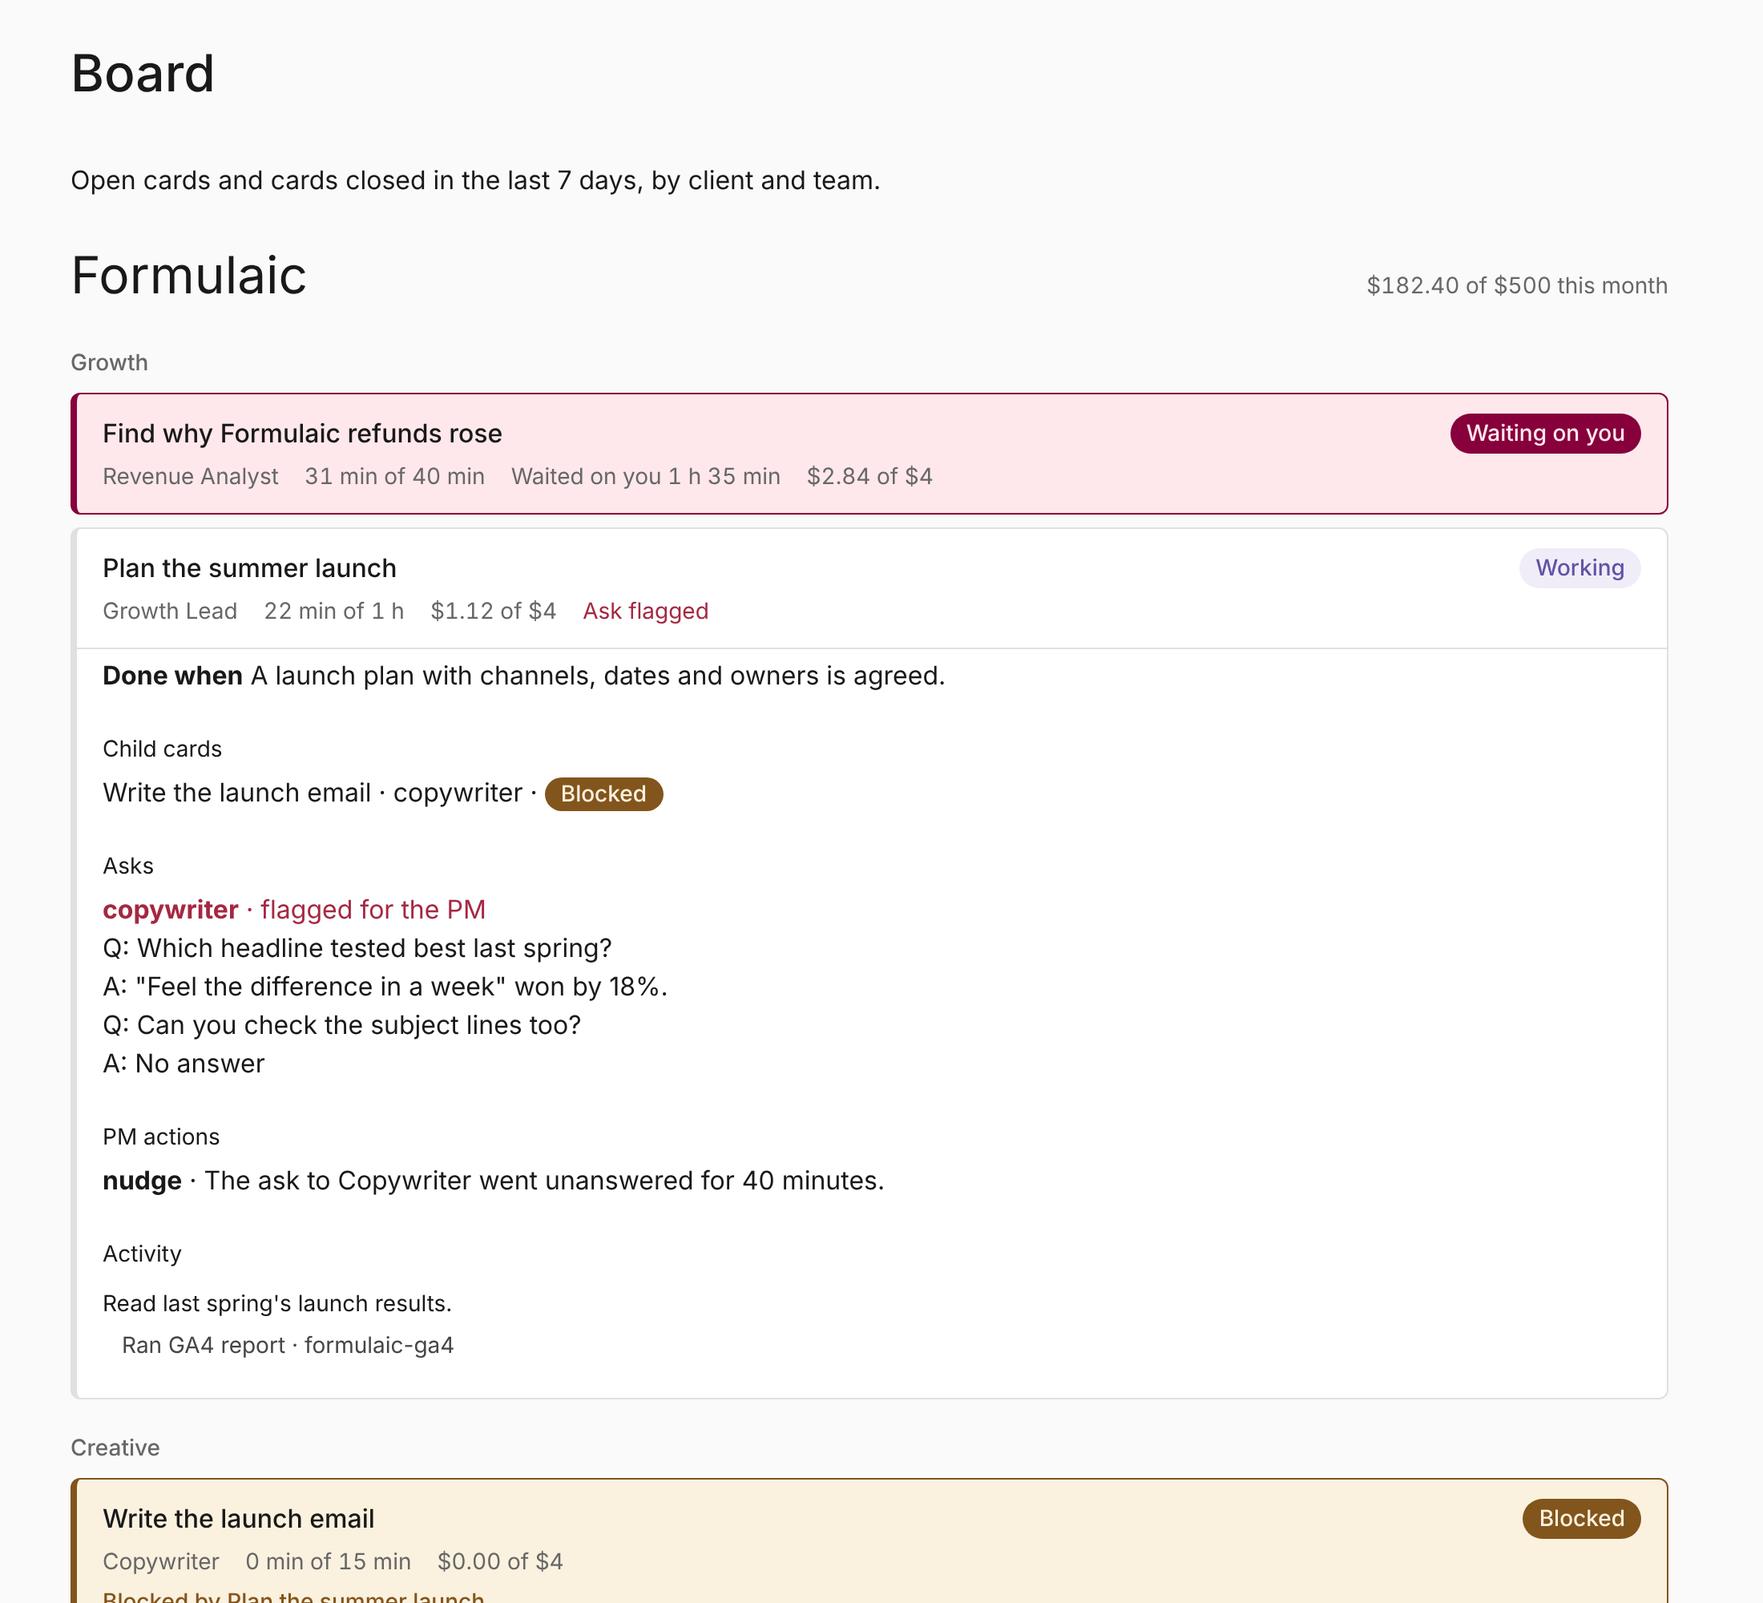
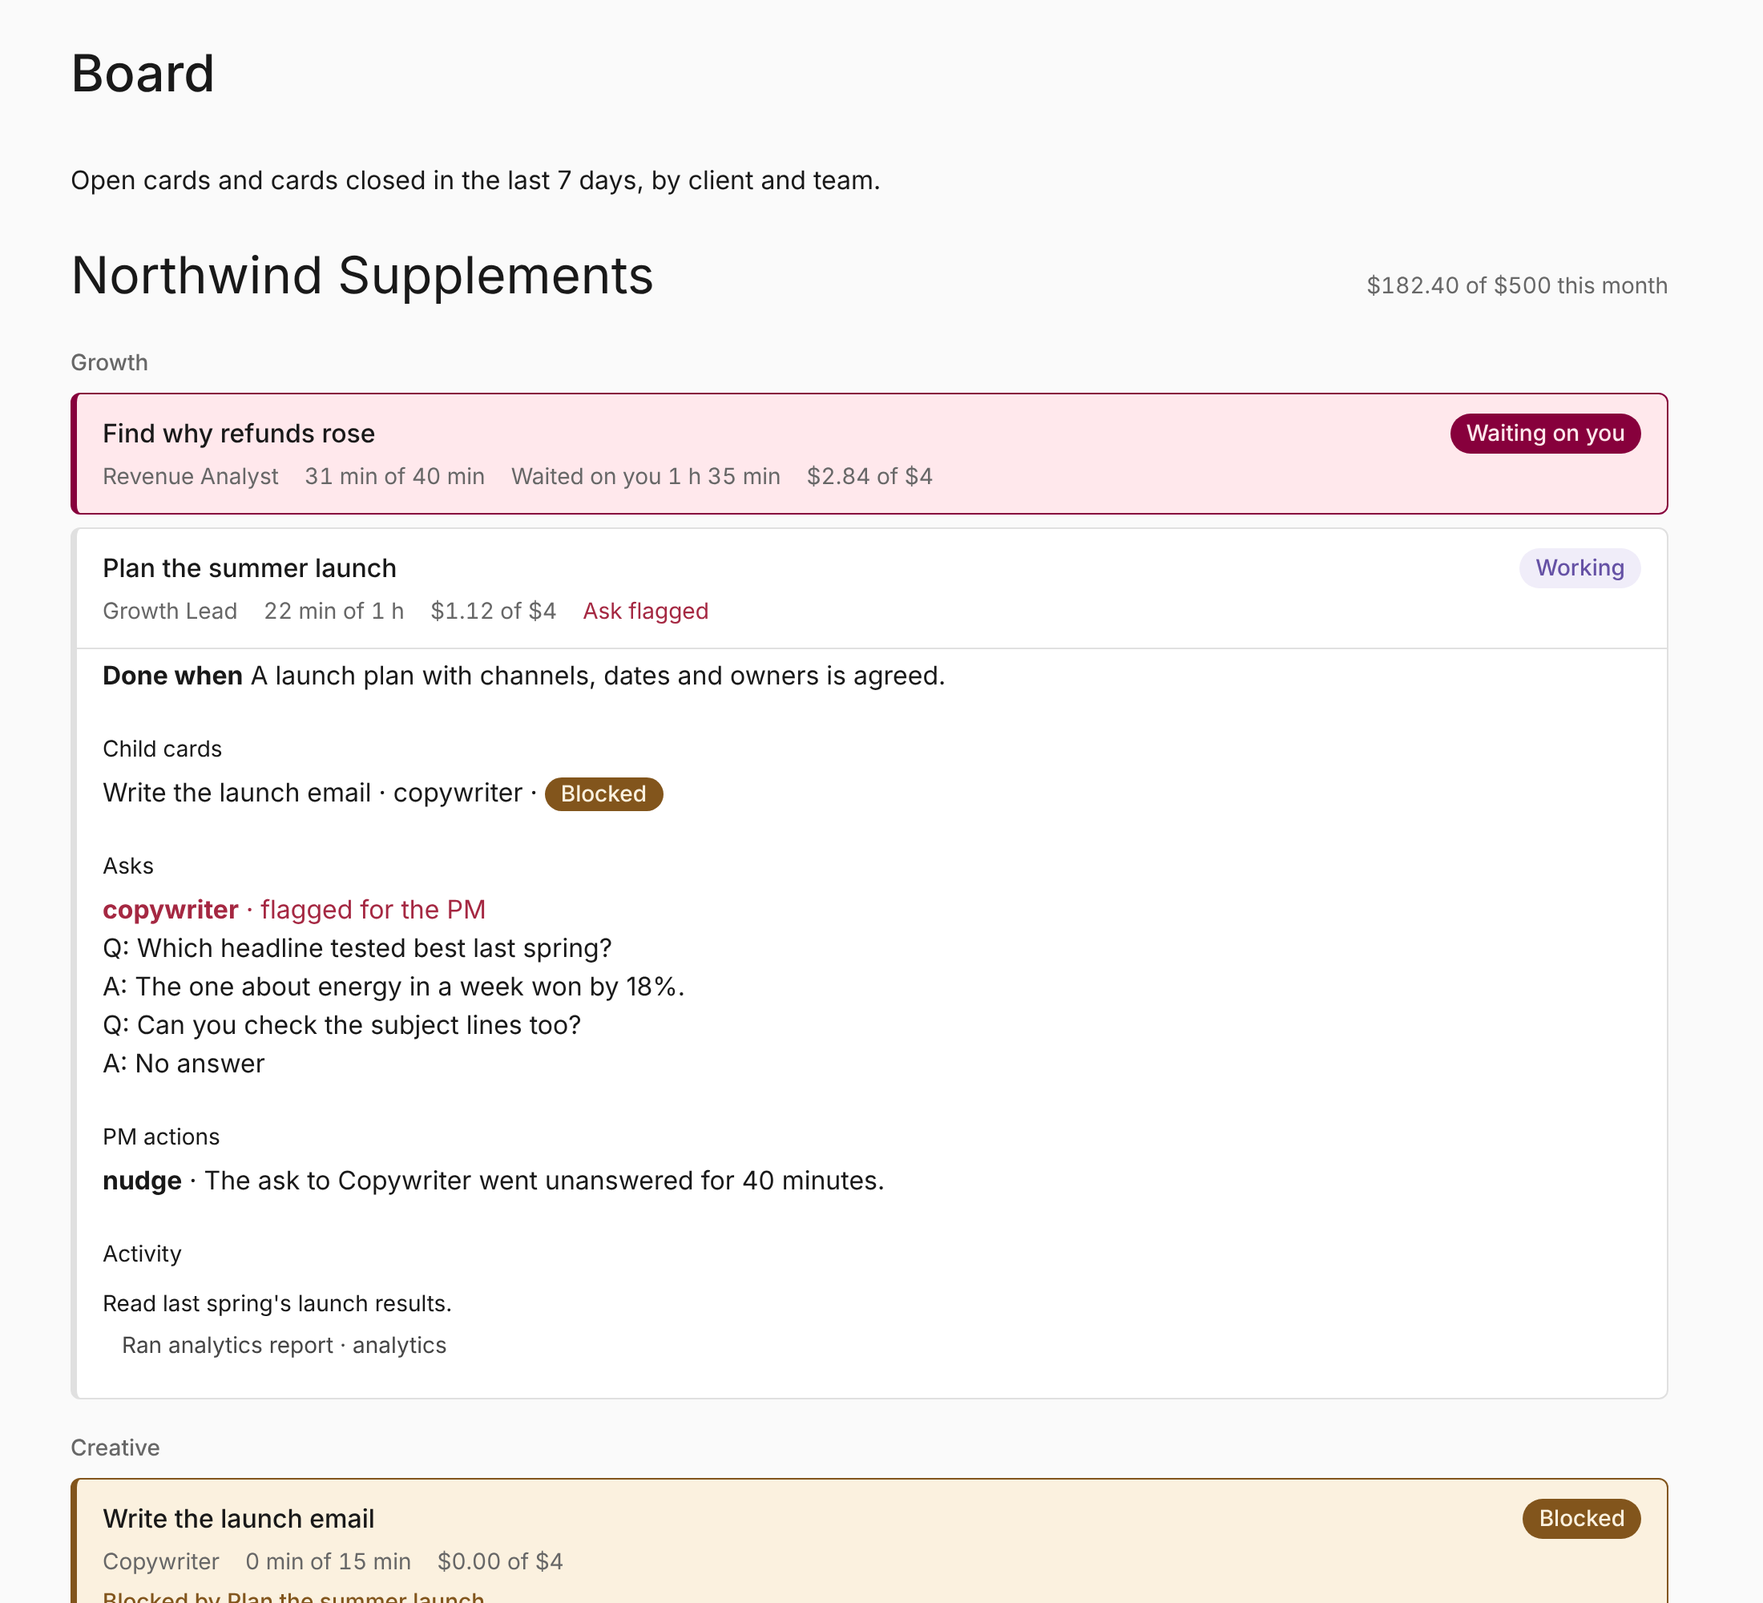
fix(agents): address review of the Board
Read card tasks directly so no card drops off past 100 tasks, show
waiting-on-owner before blocked, keep unanswered questions on the board,
count spend like the client budget, and refuse child cards whose client
file is gone. Screenshot uses synthetic client names.

Claude-Session: https://claude.ai/code/session_01AcuFWTa9nvtZwe4ksg7s5y

diff --git a/src/server/agents/board.ts b/src/server/agents/board.ts
@@ -3,7 +3,6 @@ import type { Pool } from 'pg';
 import { z } from 'zod';
 import type { Board, BoardCard, BoardCardDetail, BoardState } from '../../shared/board.ts';
 import type { CardResult, CardView } from '../../shared/cards.ts';
-import type { Task } from '../../shared/contracts.ts';
 import type { AgentRegistry } from './registry.ts';
 
 const recentDays = 7;
@@ -11,11 +10,29 @@ const unknownTeam = 'unassigned';
 
 type Spend = { client: string; spentUsd: number; capUsd: number; reason?: string };
 
-function boardState(task: Task, card: CardView, result: CardResult | null): BoardState {
-  if (task.status === 'cancelled') return 'stopped';
-  if (task.status === 'done') return result && 'question' in result ? 'needs_you' : 'done';
+type TaskRow = {
+  id: string;
+  title: string;
+  state: 'open' | 'done' | 'cancelled';
+  turn_status: string | null;
+  answered: boolean;
+  waiting: boolean;
+  scheduled: boolean;
+  updated_at: Date;
+  closed_at: Date | null;
+};
+
+function boardState(task: TaskRow, card: CardView, result: CardResult | null): BoardState {
+  if (task.state === 'cancelled') return 'stopped';
+  if (task.state === 'done') return result && 'question' in result ? 'needs_you' : 'done';
+  if (task.turn_status === 'waiting' && !task.answered) return 'needs_you';
   if (card.openBlockers.length) return 'blocked';
-  return task.status;
+  if (task.turn_status === 'queued') return 'queued';
+  if (task.turn_status === 'running') return 'working';
+  if (task.turn_status === 'failed') return 'failed';
+  if (task.waiting) return 'waiting';
+  if (task.scheduled) return 'scheduled';
+  return 'needs_you';
 }
 
 const order: BoardState[] = [
@@ -34,24 +51,33 @@ export function createBoard(options: {
   pool: Pool;
   ownerId: string;
   registry: () => Promise<AgentRegistry | undefined>;
-  tasks: () => Promise<Task[]>;
   cards: { read(taskIds?: string[]): Promise<CardView[]> };
   spend: () => Promise<Spend[]>;
 }) {
   const { pool, ownerId } = options;
 
-  async function snapshot(ids?: string[]) {
-    const [registry, tasks, views] = await Promise.all([
-      options.registry(),
-      options.tasks(),
-      options.cards.read(ids),
-    ]);
+  async function snapshot(ids: string[]) {
+    const [registry, views] = await Promise.all([options.registry(), options.cards.read(ids)]);
     const cardIds = views.map((view) => view.taskId);
-    const [spent, results] = await Promise.all([
+    const taskIds = [...new Set(views.flatMap((view) => [view.taskId, ...view.openBlockers]))];
+    const [tasks, spent, results] = await Promise.all([
+      pool.query<TaskRow>(
+        `SELECT t.id,t.title,t.state,t.updated_at,t.closed_at,
+           COALESCE((SELECT r.status FROM turns r WHERE r.owner_id=t.owner_id AND r.session_id=t.session_id AND r.status='running'),u.status) AS turn_status,
+           EXISTS(SELECT 1 FROM turns n WHERE n.owner_id=u.owner_id AND n.thread_id=u.thread_id
+             AND n.session_id=u.session_id AND n.parent_turn_id=u.id) AS answered,
+           jsonb_array_length(COALESCE(t.waiting_for,'[]'::jsonb))>0 AS waiting,
+           t.next_check IS NOT NULL AND t.next_check>now() AS scheduled
+         FROM tasks t LEFT JOIN turns u ON u.id=t.turn_id AND u.owner_id=t.owner_id
+         WHERE t.owner_id=$1 AND t.id=ANY($2::uuid[])`,
+        [ownerId, taskIds],
+      ),
       pool.query<{ task_id: string; spent: number }>(
         `SELECT c.task_id,COALESCE(sum(m.cost_usd::text::numeric),0)::float8 AS spent
          FROM agent_cards c JOIN tasks t ON t.id=c.task_id AND t.owner_id=c.owner_id
-         JOIN model_usage m ON m.owner_id=c.owner_id AND (m.session_id=t.session_id OR m.session_id IN (
+         JOIN model_usage m ON m.owner_id=c.owner_id
+         LEFT JOIN turns u ON u.id=m.turn_id AND u.owner_id=m.owner_id
+         JOIN LATERAL (SELECT COALESCE(m.session_id,u.session_id) AS id) s ON (s.id=t.session_id OR s.id IN (
            SELECT a.id FROM agent_card_asks a WHERE a.owner_id=c.owner_id AND a.task_id=c.task_id))
          WHERE c.owner_id=$1 AND c.task_id=ANY($2::uuid[]) GROUP BY c.task_id`,
         [ownerId, cardIds],
@@ -63,8 +89,8 @@ export function createBoard(options: {
     ]);
     const spend = new Map(spent.rows.map((row) => [row.task_id, row.spent]));
     const result = new Map(results.rows.map((row) => [row.task_id, row.result]));
-    const titles = new Map(tasks.map((task) => [task.id, task.title]));
-    const byId = new Map(tasks.map((task) => [task.id, task]));
+    const titles = new Map(tasks.rows.map((task) => [task.id, task.title]));
+    const byId = new Map(tasks.rows.map((task) => [task.id, task]));
     const cards: BoardCard[] = [];
     for (const view of views) {
       const task = byId.get(view.taskId);
@@ -87,8 +113,8 @@ export function createBoard(options: {
         spendUsd: spend.get(view.taskId) ?? 0,
         budgetUsd: view.budgetUsd,
         flaggedAsks: view.asks.filter((ask) => ask.flagged).length,
-        updatedAt: task.updatedAt,
-        closedAt: task.closedAt,
+        updatedAt: task.updated_at.toISOString(),
+        closedAt: task.closed_at?.toISOString() ?? null,
       });
     }
     return { registry, cards, result };
@@ -97,15 +123,21 @@ export function createBoard(options: {
   async function read(): Promise<Board> {
     const registry = await options.registry();
     if (!registry) return { enabled: false, recentDays, clients: [] };
-    const [{ cards }, spend] = await Promise.all([snapshot(), options.spend()]);
-    const since = Date.now() - recentDays * 24 * 60 * 60 * 1000;
-    const shown = cards
-      .filter((card) => !card.closedAt || Date.parse(card.closedAt) >= since)
-      .sort(
-        (a, b) =>
-          order.indexOf(a.state) - order.indexOf(b.state) ||
-          Date.parse(b.updatedAt) - Date.parse(a.updatedAt),
-      );
+    const recent = await pool.query<{ task_id: string }>(
+      `SELECT c.task_id FROM agent_cards c JOIN tasks t ON t.id=c.task_id AND t.owner_id=c.owner_id
+       WHERE c.owner_id=$1 AND (t.state='open' OR t.closed_at>=now()-make_interval(days=>$2)
+         OR (t.state='done' AND c.result ? 'question'))`,
+      [ownerId, recentDays],
+    );
+    const [{ cards }, spend] = await Promise.all([
+      snapshot(recent.rows.map((row) => row.task_id)),
+      options.spend(),
+    ]);
+    const shown = cards.sort(
+      (a, b) =>
+        order.indexOf(a.state) - order.indexOf(b.state) ||
+        Date.parse(b.updatedAt) - Date.parse(a.updatedAt),
+    );
     const spent = new Map(spend.map((row) => [row.client, row]));
     const clientNames = [
       ...registry.clients.keys(),
@@ -142,7 +174,8 @@ export function createBoard(options: {
   async function card(id: string): Promise<BoardCardDetail> {
     const { cards, result } = await snapshot([id]);
     const found = cards[0];
-    if (!found) throw Object.assign(new Error('Card not found.'), { statusCode: 404 });
+    if (!found)
+      throw Object.assign(new Error(`Card ${id} not found for this owner.`), { statusCode: 404 });
     const [task, children, asks, actions] = await Promise.all([
       pool.query<{ done_when: string; now_text: string }>(
         'SELECT done_when,now_text FROM tasks WHERE id=$1 AND owner_id=$2',
@@ -167,7 +200,7 @@ export function createBoard(options: {
         [ownerId, id],
       ),
     ]);
-    const kids = children.rows.length
+    const childCards = children.rows.length
       ? (await snapshot(children.rows.map((row) => row.task_id))).cards
       : [];
     return {
@@ -175,7 +208,7 @@ export function createBoard(options: {
       doneWhen: task.rows[0]?.done_when ?? '',
       now: task.rows[0]?.now_text ?? '',
       result: result.get(id) ?? null,
-      children: kids.map(({ id, title, agent, state }) => ({ id, title, agent, state })),
+      children: childCards.map(({ id, title, agent, state }) => ({ id, title, agent, state })),
       asks: asks.rows.map((ask) => ({
         agent: ask.to_agent,
         flagged: ask.flagged || ask.exchanges.some((exchange) => exchange.unanswered),

diff --git a/tests/agents.test.ts b/tests/agents.test.ts
@@ -6,14 +6,13 @@ import { dirname, join } from 'node:path';
 import test from 'node:test';
 import type { Agent, AgentSessionOptions, AgentTool, RuntimeContext } from '../src/ports/agent.ts';
 import { createAgentRuntime } from '../src/runtime/index.ts';
-import { toolDefinitions } from '../src/runtime/tools.ts';
+import { mcpNamespaces, toolDefinitions } from '../src/runtime/tools.ts';
 import { bindAgent, createAgentBinding, loadAgentRegistry } from '../src/server/agents/registry.ts';
 import { wallCard } from '../src/server/agents/clients.ts';
-import { mcpNamespaces } from '../src/runtime/tools.ts';
+import { fakeComputer, fakeWorkspace } from './runtime-fixtures.ts';
 
 const namespaces = (servers: NonNullable<RuntimeContext['mcpServers']>) =>
   mcpNamespaces(servers).map(({ namespace }) => namespace);
-import { fakeComputer, fakeWorkspace } from './runtime-fixtures.ts';
 
 async function configRoot(files: Record<string, string>) {
   const root = await mkdtemp(join(tmpdir(), 'nod-agents-'));
@@ -1169,7 +1168,6 @@ Write copy in the client's brand voice.
           pool: db.pool,
           ownerId,
           registry: async () => registry,
-          tasks: () => tasks.read(),
           cards,
           spend: budget.spend,
         });
@@ -1194,6 +1192,21 @@ Write copy in the client's brand voice.
             question: 'Can I move $200 from Meta to Taboola?',
           },
           null,
+        );
+        await db.pool.query("UPDATE tasks SET closed_at=now()-interval '30 days' WHERE id=$1", [
+          asking.id,
+        ]);
+        const { task: waiting } = await routerCard('Ask me which Formulaic email to rewrite.', {
+          client: 'formulaic',
+          blockedBy: [lead.id],
+        });
+        await db.pool.query(
+          "UPDATE turns SET status='waiting' WHERE id=(SELECT id FROM turns WHERE session_id=$1 ORDER BY created_at LIMIT 1)",
+          [waiting.id],
+        );
+        await db.pool.query(
+          'UPDATE tasks SET turn_id=(SELECT id FROM turns WHERE session_id=$1 ORDER BY created_at LIMIT 1) WHERE id=$1',
+          [waiting.id],
         );
         const { task: old } = await routerCard('Old RKMD audit.');
         await finishCard(await cardTurn(old.id), old.id, 'Audit done.');
@@ -1243,6 +1256,7 @@ Write copy in the client's brand voice.
         ]);
         assert.equal(placed.get(asking.id)?.client, 'rkmd');
         assert.equal(placed.get(asking.id)?.card.state, 'needs_you');
+        assert.equal(placed.get(waiting.id)?.card.state, 'needs_you');
         assert.notEqual(placed.get(lead.id)?.card.state, 'blocked');
         assert.notEqual(placed.get(lead.id)?.card.state, 'needs_you');
         assert.equal(placed.has(old.id), false);
@@ -1269,7 +1283,7 @@ Write copy in the client's brand voice.
         assert.deepEqual((await board.card(asking.id)).result, {
           question: 'Can I move $200 from Meta to Taboola?',
         });
-        await assert.rejects(board.card(hidden.id), /Card not found/);
+        await assert.rejects(board.card(hidden.id), /not found for this owner/);
 
         const app = Fastify({ logger: false });
         registerLocalAccess(app, 4310, { key: 'synthetic-local-access' });
@@ -1295,7 +1309,6 @@ Write copy in the client's brand voice.
           pool: db.pool,
           ownerId,
           registry: async () => undefined,
-          tasks: () => tasks.read(),
           cards,
           spend: budget.spend,
         });

diff --git a/src/server/agents/cards.ts b/src/server/agents/cards.ts
@@ -157,7 +157,7 @@ export function createCards(options: {
       throw cardRefusal(
         `A card needs the one client it is for. Name it with client, one of: ${clients}. Ask the owner if their words don't say which.`,
       );
-    if (!parentCard && !registry.clients.has(cardClient))
+    if (!registry.clients.has(cardClient))
       throw cardRefusal(`${cardClient} is not a client. Use one of: ${clients}.`);
     if (!request.estimateMinutes)
       throw cardRefusal(
@@ -167,7 +167,7 @@ export function createCards(options: {
     const blockers = (
       await client.query<{ task_id: string; state: string }>(
         `SELECT c.task_id,t.state FROM agent_cards c JOIN tasks t ON t.id=c.task_id AND t.owner_id=c.owner_id
-         WHERE c.owner_id=$1 AND c.task_id=ANY($2::uuid[]) AND c.client IS NOT DISTINCT FROM $3`,
+         WHERE c.owner_id=$1 AND c.task_id=ANY($2::uuid[]) AND c.client=$3`,
         [ownerId, blockedBy, cardClient],
       )
     ).rows;

diff --git a/src/server/composition.ts b/src/server/composition.ts
@@ -2855,7 +2855,6 @@ async function initializeApplication(
     pool,
     ownerId,
     registry: () => agents.registry(),
-    tasks: () => tasks.read(),
     cards,
     spend: clientBudget.spend,
   }).registerRoutes(app);

diff --git a/docs/src/content/docs/how-it-works/board.md b/docs/src/content/docs/how-it-works/board.md
@@ -5,14 +5,14 @@ sidebar:
   order: 10
 ---
 
-The Board page in Nod web shows the agency's work at a glance. It lists every open card and every card closed in the last 7 days, grouped by client and then by team. Cards and clients are described in [Agents and teams](/how-it-works/agents-and-teams/) and [Clients and walls](/how-it-works/clients-and-walls/).
+The Board page in Nod web shows the agency's work at a glance. It lists every open card, every card closed in the last 7 days and every card whose question to the owner is still unanswered, grouped by client and then by team. Cards and clients are described in [Agents and teams](/how-it-works/agents-and-teams/) and [Clients and walls](/how-it-works/clients-and-walls/).
 
-![The Board page with Formulaic's Growth and Creative cards. A card waiting on the owner is pink, a blocked card is amber and names the card it waits on, and an opened card shows its done-when line, child cards, an ask flagged for the PM, a PM nudge and its activity.](../../../assets/screens/board.png)
+![The Board page with a synthetic client's Growth and Creative cards. A card waiting on the owner is pink, a blocked card is amber and names the card it waits on, and an opened card shows its done-when line, child cards, an ask flagged for the PM, a PM nudge and its activity.](../../../assets/screens/board.png)
 
 ## What each card shows
 
 - **Owner agent**, the one agent that owns the card.
-- **State**: working, queued, waiting, failed, done or stopped, as on the Scheduled page, plus two states that stand out. **Blocked** cards are amber and name the open cards they wait on. **Waiting on you** cards are pink: the card asked the owner a question, or closed with one question for the owner.
+- **State**: working, queued, waiting, failed, done or stopped, as on the Scheduled page, plus two states that stand out. **Blocked** cards are amber and name the open cards they wait on. **Waiting on you** cards are pink: the card asked the owner a question, or closed with one question for the owner. Waiting on you shows even when the card also has an open blocker.
 - **Agent time against the estimate**, in agent minutes. Time over the estimate is shown in red.
 - **Waited on you**, the time the card spent waiting on the owner, kept apart from agent time.
 - **Spend**, the model spend of the card and of the asks on it, against the agent's `budget.cardUsd`.

diff --git a/docs/adr/0005-board-page.md b/docs/adr/0005-board-page.md
@@ -1,6 +1,6 @@
 # The Board is a fork-only page over the task ledger and card tables
 
-The Board page reads cards through one fork module, `src/server/agents/board.ts`, which joins upstream's task ledger (`tasks.read`, for title and status) with the card service's `cards.read` and the client budget. It adds no state of its own. A card's board state is its task status, except that a card with an open blocker is `blocked` and a card closed with a question for the owner is `needs_you`. PM actions are stored in the fork table `agent_card_actions`, written through `cards.recordAction`, so the PM (ticket #9) records each nudge, split, reassignment or escalation where the Board shows it.
+The Board page reads cards through one fork module, `src/server/agents/board.ts`, which reads the card's task row and current turn, the same fields upstream's task status uses, together with the card service's `cards.read` and the client budget. It adds no state of its own. It doesn't call upstream's `tasks.read`, which stops at the latest 100 tasks. A card's board state follows upstream's task status, except that a card waiting on the owner or closed with a question for the owner is `needs_you`, and otherwise a card with an open blocker is `blocked`. PM actions are stored in the fork table `agent_card_actions`, written through `cards.recordAction`, so the PM (ticket #9) records each nudge, split, reassignment or escalation where the Board shows it.
 
 ## Upstream files touched
 
